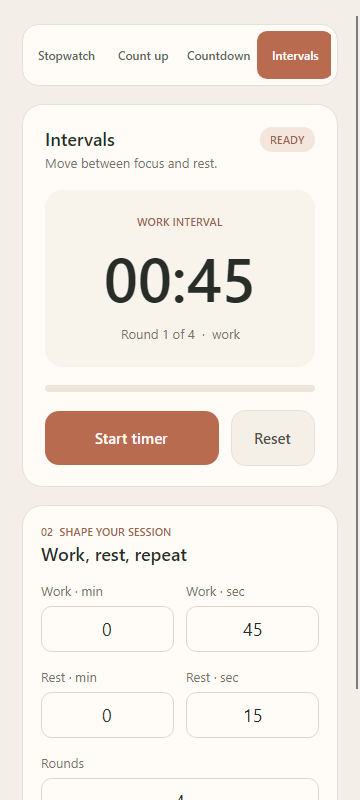
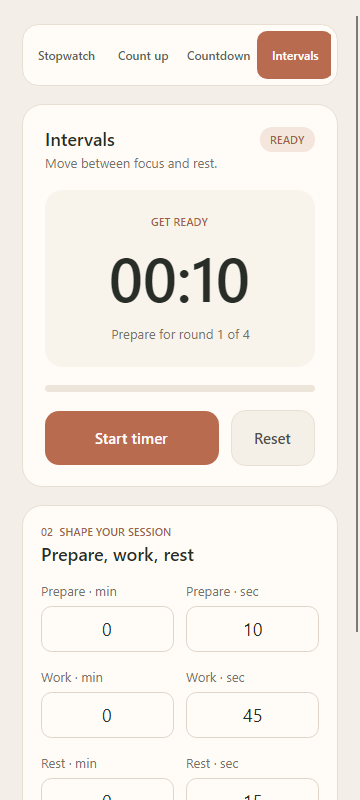
Add preparation phase to interval timer

diff --git a/Timer/ViewModels/MainViewModel.cs b/Timer/ViewModels/MainViewModel.cs
@@ -39,6 +39,8 @@ public partial class MainViewModel : ViewModelBase
 
     [ObservableProperty] private string _durationMinutes = "5";
     [ObservableProperty] private string _durationSeconds = "0";
+    [ObservableProperty] private string _preparationMinutes = "0";
+    [ObservableProperty] private string _preparationSeconds = "10";
     [ObservableProperty] private string _workMinutes = "0";
     [ObservableProperty] private string _workSeconds = "45";
     [ObservableProperty] private string _restMinutes = "0";
@@ -59,6 +61,8 @@ public partial class MainViewModel : ViewModelBase
 
     partial void OnDurationMinutesChanged(string value) => RefreshReadyPreview();
     partial void OnDurationSecondsChanged(string value) => RefreshReadyPreview();
+    partial void OnPreparationMinutesChanged(string value) => RefreshReadyPreview();
+    partial void OnPreparationSecondsChanged(string value) => RefreshReadyPreview();
     partial void OnWorkMinutesChanged(string value) => RefreshReadyPreview();
     partial void OnWorkSecondsChanged(string value) => RefreshReadyPreview();
     partial void OnRestMinutesChanged(string value) => RefreshReadyPreview();
@@ -183,16 +187,17 @@ public partial class MainViewModel : ViewModelBase
             return true;
         }
 
-        if (!TryDuration(WorkMinutes, WorkSeconds, out var work) ||
+        if (!TryDuration(PreparationMinutes, PreparationSeconds, out var preparation, allowZero: true) ||
+            !TryDuration(WorkMinutes, WorkSeconds, out var work) ||
             !TryDuration(RestMinutes, RestSeconds, out var rest) ||
             !int.TryParse(Rounds, NumberStyles.None, CultureInfo.InvariantCulture, out var rounds) ||
             rounds is < 1 or > 99)
         {
-            ErrorMessage = "Enter valid work and rest times, and 1 to 99 rounds.";
+            ErrorMessage = "Enter valid preparation, work and rest times, and 1 to 99 rounds.";
             return false;
         }
 
-        _engine.ConfigureIntervals(work, rest, rounds);
+        _engine.ConfigureIntervals(preparation, work, rest, rounds);
         return true;
     }
 
@@ -223,6 +228,7 @@ public partial class MainViewModel : ViewModelBase
             TimerMode.Countdown => "TIME REMAINING",
             TimerMode.Intervals => snapshot.Phase switch
             {
+                IntervalPhase.Prepare => "GET READY",
                 IntervalPhase.Work => "WORK INTERVAL",
                 IntervalPhase.Rest => "REST INTERVAL",
                 _ => "SESSION COMPLETE"
@@ -236,9 +242,11 @@ public partial class MainViewModel : ViewModelBase
                 : "A little time, well spent.",
             TimerMode.CountUp => $"Goal  {FormatTime(snapshot.Target!.Value)}",
             TimerMode.Countdown => $"From  {FormatTime(snapshot.Target!.Value)}",
-            TimerMode.Intervals => $"Round {snapshot.Round} of {snapshot.Rounds}  ·  " +
-                (snapshot.Phase == IntervalPhase.Rest ? "rest" :
-                 snapshot.Phase == IntervalPhase.Complete ? "complete" : "work"),
+            TimerMode.Intervals => snapshot.Phase == IntervalPhase.Prepare
+                ? $"Prepare for round 1 of {snapshot.Rounds}"
+                : $"Round {snapshot.Round} of {snapshot.Rounds}  ·  " +
+                    (snapshot.Phase == IntervalPhase.Rest ? "rest" :
+                     snapshot.Phase == IntervalPhase.Complete ? "complete" : "work"),
             _ => string.Empty
         };
         PrimaryActionLabel = snapshot.Status switch
@@ -253,13 +261,14 @@ public partial class MainViewModel : ViewModelBase
         OnPropertyChanged(nameof(CanEditSettings));
     }
 
-    private static bool TryDuration(string minutesText, string secondsText, out TimeSpan duration)
+    private static bool TryDuration(string minutesText, string secondsText, out TimeSpan duration,
+        bool allowZero = false)
     {
         duration = TimeSpan.Zero;
         if (!int.TryParse(minutesText, NumberStyles.None, CultureInfo.InvariantCulture, out var minutes) ||
             !int.TryParse(secondsText, NumberStyles.None, CultureInfo.InvariantCulture, out var seconds) ||
             minutes is < 0 or > 999 || seconds is < 0 or > 59 ||
-            minutes == 0 && seconds == 0)
+            !allowZero && minutes == 0 && seconds == 0)
             return false;
 
         duration = TimeSpan.FromMinutes(minutes) + TimeSpan.FromSeconds(seconds);

diff --git a/Timer.Core/TimerEngine.cs b/Timer.Core/TimerEngine.cs
@@ -9,6 +9,7 @@ public sealed class TimerEngine
     private TimerMode _mode = TimerMode.Stopwatch;
     private TimerStatus _status = TimerStatus.Ready;
     private TimeSpan _duration;
+    private TimeSpan _preparation;
     private TimeSpan _work;
     private TimeSpan _rest;
     private int _rounds;
@@ -36,8 +37,13 @@ public sealed class TimerEngine
         _duration = duration;
     }
 
-    public void ConfigureIntervals(TimeSpan work, TimeSpan rest, int rounds)
+    public void ConfigureIntervals(TimeSpan work, TimeSpan rest, int rounds) =>
+        ConfigureIntervals(TimeSpan.Zero, work, rest, rounds);
+
+    public void ConfigureIntervals(TimeSpan preparation, TimeSpan work, TimeSpan rest, int rounds)
     {
+        if (preparation < TimeSpan.Zero)
+            throw new ArgumentOutOfRangeException(nameof(preparation), "Preparation cannot be negative.");
         RequirePositive(work, nameof(work));
         RequirePositive(rest, nameof(rest));
         if (rounds < 1)
@@ -46,7 +52,7 @@ public sealed class TimerEngine
         try
         {
             _ = checked(work.Ticks + rest.Ticks);
-            _ = checked(work.Ticks * rounds + rest.Ticks * (rounds - 1L));
+            _ = checked(preparation.Ticks + work.Ticks * rounds + rest.Ticks * (rounds - 1L));
         }
         catch (OverflowException)
         {
@@ -54,6 +60,7 @@ public sealed class TimerEngine
         }
 
         Configure(TimerMode.Intervals);
+        _preparation = preparation;
         _work = work;
         _rest = rest;
         _rounds = rounds;
@@ -115,9 +122,14 @@ public sealed class TimerEngine
             return new(_mode, _status, IntervalPhase.Complete, _rounds, _rounds,
                 _work, TimeSpan.Zero, _work, totalElapsed, totalDuration);
 
+        if (totalElapsed < _preparation)
+            return new(_mode, _status, IntervalPhase.Prepare, 1, _rounds,
+                totalElapsed, _preparation - totalElapsed, _preparation, totalElapsed, totalDuration);
+
         var cycleTicks = checked(_work.Ticks + _rest.Ticks);
-        var completedCycles = totalElapsed.Ticks / cycleTicks;
-        var offsetTicks = totalElapsed.Ticks % cycleTicks;
+        var intervalTicks = totalElapsed.Ticks - _preparation.Ticks;
+        var completedCycles = intervalTicks / cycleTicks;
+        var offsetTicks = intervalTicks % cycleTicks;
         var round = checked((int)completedCycles + 1);
         var isWork = offsetTicks < _work.Ticks;
         var phaseDuration = isWork ? _work : _rest;
@@ -139,7 +151,7 @@ public sealed class TimerEngine
         TimerMode.Stopwatch => null,
         TimerMode.CountUp or TimerMode.Countdown => _duration,
         TimerMode.Intervals => TimeSpan.FromTicks(
-            checked(_work.Ticks * _rounds + _rest.Ticks * (_rounds - 1L))),
+            checked(_preparation.Ticks + _work.Ticks * _rounds + _rest.Ticks * (_rounds - 1L))),
         _ => throw new InvalidOperationException("Unknown timer mode.")
     };
 

diff --git a/Timer.Core.Tests/TimerEngineTests.cs b/Timer.Core.Tests/TimerEngineTests.cs
@@ -84,6 +84,36 @@ public sealed class TimerEngineTests
     }
 
     [TestMethod]
+    public void PreparationRunsOnceBeforeTheFirstWorkInterval()
+    {
+        var clock = new ManualTimeProvider();
+        var timer = new TimerEngine(clock);
+        timer.ConfigureIntervals(TimeSpan.FromSeconds(7), TimeSpan.FromSeconds(10),
+            TimeSpan.FromSeconds(5), 2);
+
+        var ready = timer.Update();
+        Assert.AreEqual(IntervalPhase.Prepare, ready.Phase);
+        Assert.AreEqual(TimeSpan.FromSeconds(7), ready.Remaining);
+        Assert.AreEqual(TimeSpan.FromSeconds(32), ready.TotalDuration);
+
+        timer.Start();
+        clock.Advance(TimeSpan.FromSeconds(7));
+        var work = timer.Update();
+        Assert.AreEqual(IntervalPhase.Work, work.Phase);
+        Assert.AreEqual(1, work.Round);
+        Assert.AreEqual(TimeSpan.FromSeconds(10), work.Remaining);
+
+        clock.Advance(TimeSpan.FromSeconds(16));
+        var secondWork = timer.Update();
+        Assert.AreEqual(IntervalPhase.Work, secondWork.Phase);
+        Assert.AreEqual(2, secondWork.Round);
+        Assert.AreEqual(TimeSpan.FromSeconds(9), secondWork.Remaining);
+
+        clock.Advance(TimeSpan.FromSeconds(9));
+        Assert.AreEqual(IntervalPhase.Complete, timer.Update().Phase);
+    }
+
+    [TestMethod]
     public void IntervalsFinishAfterFinalWorkWithoutFinalRest()
     {
         var clock = new ManualTimeProvider();

diff --git a/Timer.App.Tests/MainViewModelTests.cs b/Timer.App.Tests/MainViewModelTests.cs
@@ -61,9 +61,14 @@ public sealed class MainViewModelTests
         Assert.IsTrue(viewModel.IsIntervalsSelected);
         Assert.AreEqual(3, viewModel.SelectedModeIndex);
         Assert.AreEqual("READY", viewModel.StatusLabel);
-        Assert.AreEqual("00:45", viewModel.DisplayTime);
-        Assert.AreEqual("Round 1 of 4  ·  work", viewModel.DetailLabel);
+        Assert.AreEqual("00:10", viewModel.DisplayTime);
+        Assert.AreEqual("GET READY", viewModel.PhaseLabel);
+        Assert.AreEqual("Prepare for round 1 of 4", viewModel.DetailLabel);
         Assert.IsTrue(viewModel.CanEditSettings);
+
+        viewModel.PreparationSeconds = "0";
+        Assert.AreEqual("00:45", viewModel.DisplayTime);
+        Assert.AreEqual("WORK INTERVAL", viewModel.PhaseLabel);
 
         viewModel.SelectCountdownCommand.Execute(null);
         Assert.AreEqual(2, viewModel.SelectedModeIndex);

diff --git a/Timer.Core/IntervalPhase.cs b/Timer.Core/IntervalPhase.cs
@@ -3,6 +3,7 @@ namespace Timer.Core;
 public enum IntervalPhase
 {
     None,
+    Prepare,
     Work,
     Rest,
     Complete

diff --git a/README.md b/README.md
@@ -19,9 +19,9 @@ These images were rendered from the real Avalonia view with the headless Skia re
 | Stopwatch | Counts up without a target. |
 | Count up | Counts up to a chosen duration and stops. |
 | Countdown | Counts down from a chosen duration to zero. |
-| Intervals | Alternates work and rest for a chosen number of rounds; the last work period ends the session without a final rest. |
+| Intervals | Starts with an optional preparation countdown, then alternates work and rest for a chosen number of rounds; the last work period ends the session without a final rest. |
 
-All modes support start, pause, resume, and reset. The duration fields accept up to 999 minutes and 59 seconds, and intervals support 1–99 rounds. The engine uses monotonic timestamps, so a delayed screen refresh does not change the measured time.
+All modes support start, pause, resume, and reset. The duration fields accept up to 999 minutes and 59 seconds, and intervals support 1–99 rounds. Preparation runs once before the first work interval; set it to 0:00 to skip it. The engine uses monotonic timestamps, so a delayed screen refresh does not change the measured time.
 
 Timer state is held in memory. Restarting the app starts a fresh session.
 
